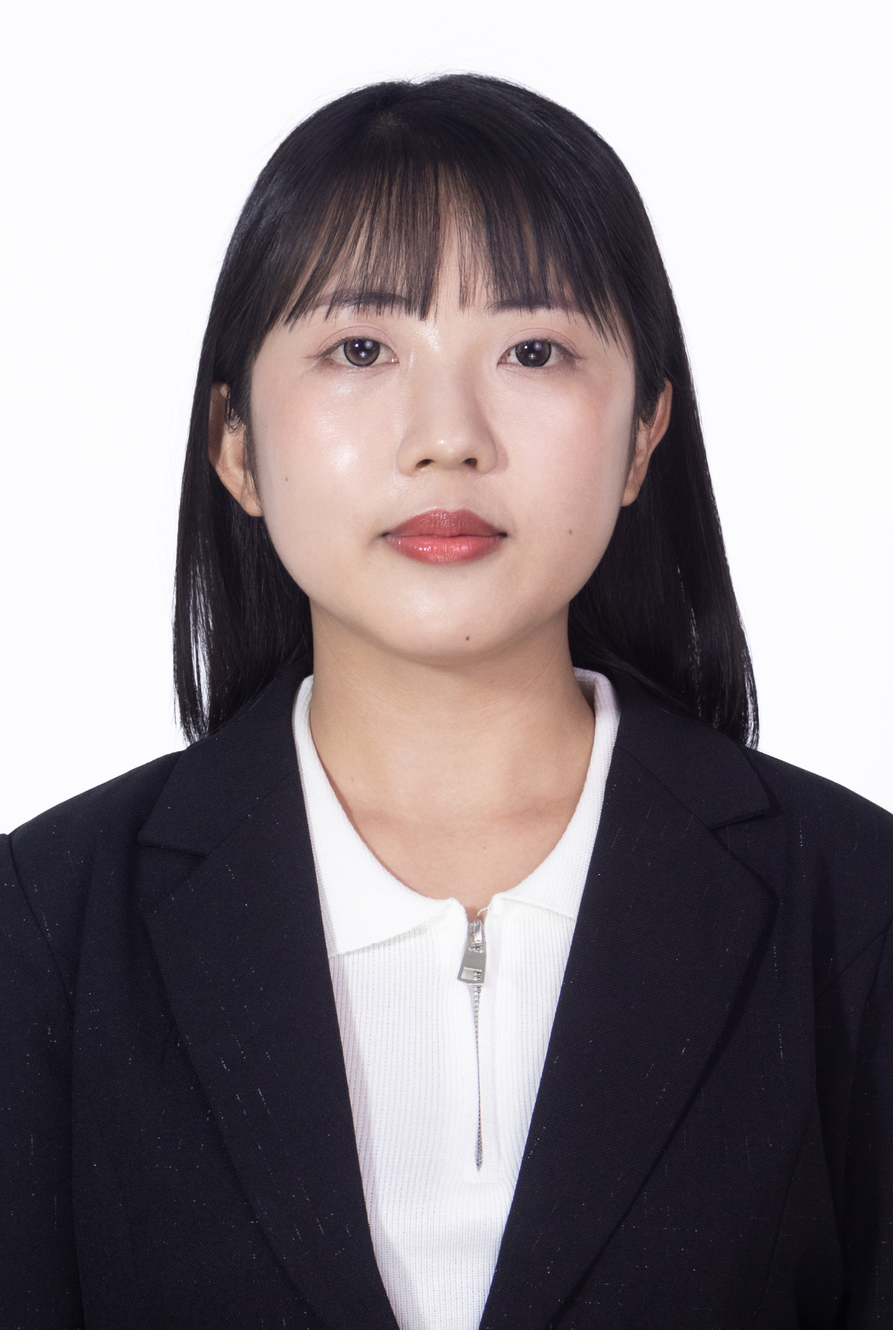
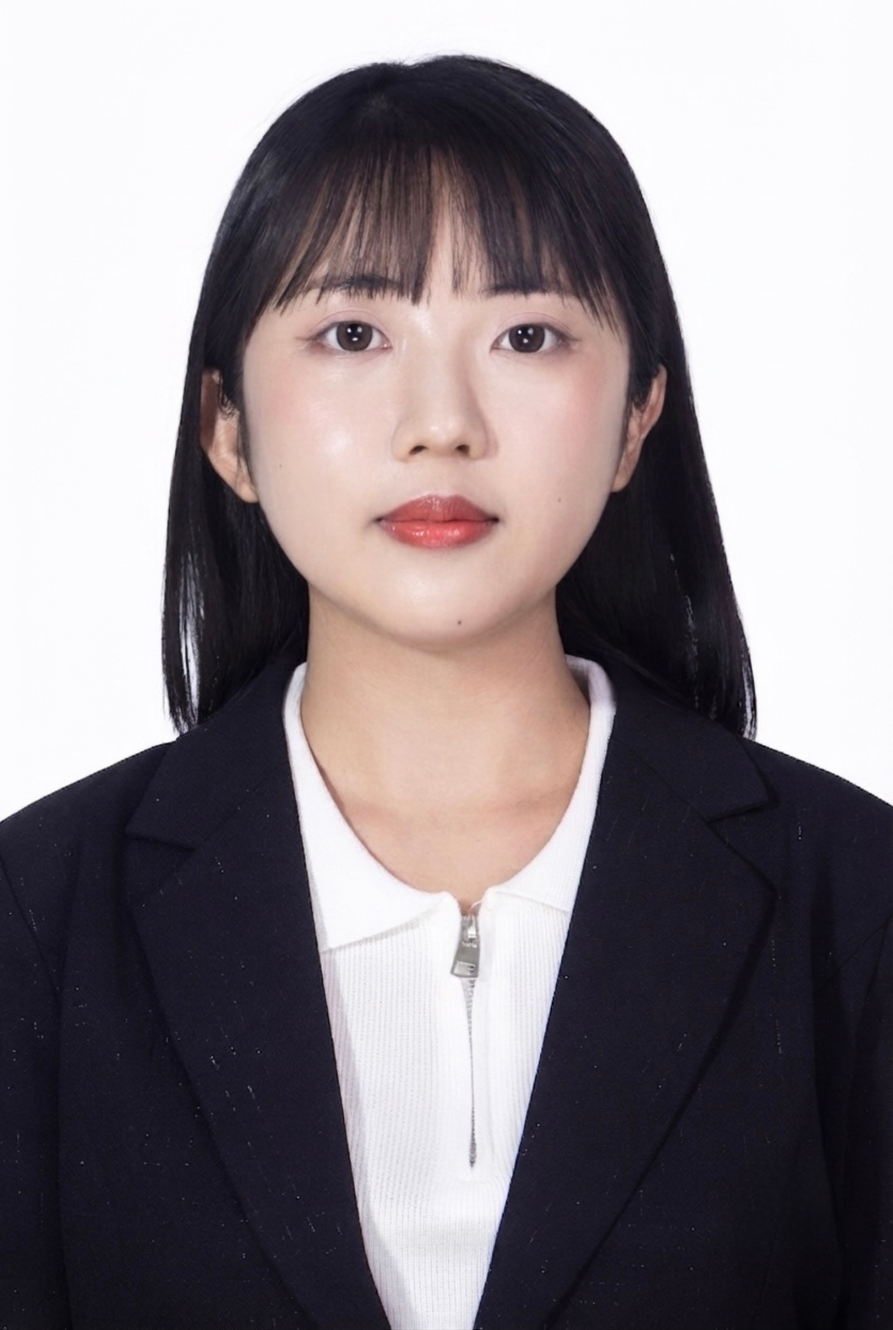
Update

diff --git a/appreciation.html b/appreciation.html
@@ -1,46 +1,20 @@
 <!DOCTYPE html>
-<html lang="en">
+<html lang="en" class="scroll-smooth">
 <head>
-  <meta charset="UTF-8" />
-  <meta name="viewport" content="width=device-width, initial-scale=1.0" />
-  <title>Principal's Message | Cambodia Adventist International School</title>
+  <meta charset="UTF-8">
+  <meta name="viewport" content="width=device-width, initial-scale=1.0">
+  <title>Letter of Appreciation | Cambodia Adventist International School</title>
 
   <!-- Favicon -->
   <link rel="icon" type="image/png" href="img/favicon.png">
-
-  <!-- Prestige Typography Mix: Inter (Sans) + Lora (Serif) -->
-  <link rel="preconnect" href="https://fonts.googleapis.com">
-  <link rel="preconnect" href="https://fonts.gstatic.com" crossorigin>
-  <link href="https://fonts.googleapis.com/css2?family=Inter:wght@400;500;600;700&family=Lora:ital,wght@0,400;0,500;0,600;0,700;1,400&display=swap" rel="stylesheet">
-  
   <script src="https://cdn.tailwindcss.com"></script>
-
-  <!-- Swiper CSS -->
-  <link rel="stylesheet" href="https://cdn.jsdelivr.net/npm/swiper@10/swiper-bundle.min.css" />
-
-  <!-- Swiper JS -->
-  <script src="https://cdn.jsdelivr.net/npm/swiper@10/swiper-bundle.min.js" defer></script>
-
+  <link href="https://fonts.googleapis.com/css2?family=Outfit:wght@300;400;500;600;700&display=swap" rel="stylesheet">
   <style>
-    body {
-      font-family: 'Inter', sans-serif;
-    }
-    .font-serif-prestige {
-      font-family: 'Lora', Georgia, serif;
-    }
-    html {
-      scroll-behavior: smooth;
-    }
-    .animate-fadeInUp {
-      opacity: 0;
-      transform: translateY(20px);
-      animation: fadeInUp 1s ease-out forwards;
-    }
+    body { font-family: 'Outfit', sans-serif; background-color: #FCFCFA; }
   </style>
 </head>
-<body class="bg-gray-50 text-gray-800 antialiased">
-  
-  <!-- Top Contact Bar -->
+<body class="text-neutral-800 antialiased selection:bg-blue-100 selection:text-blue-900">
+
   <div class="hidden lg:flex bg-[#002855] text-slate-200 text-xs tracking-wide py-3 px-8 justify-between items-center border-b border-blue-900/50">
     <div class="flex items-center space-x-6">
       <div class="flex items-center space-x-2">
@@ -61,27 +35,24 @@
     </a>
   </div>
 
-  <!-- Header / Navigation -->
   <header class="sticky top-0 bg-white/95 backdrop-blur-md shadow-md z-50 border-b border-slate-100 transition-all">
     <div class="max-w-7xl mx-auto h-20 px-6 flex justify-between items-center">
-      <!-- Logo -->
       <a href="index.html" class="flex items-center transition transform hover:scale-[1.02]">
         <img src="img/logo.png" alt="CAIS Logo" class="h-10 w-auto">
       </a>
 
-      <!-- Desktop Navigation -->
       <nav class="hidden md:flex items-center space-x-8 text-[14px] font-medium tracking-wide text-slate-600">
         <a href="index.html" class="hover:text-[#002855] transition">Home</a>
 
-        <!-- Dropdowns styled dynamically -->
         <div class="relative group py-2">
           <button class="hover:text-[#002855] text-slate-900 font-semibold transition flex items-center space-x-1">
             <span>About Us</span>
             <svg class="w-4 h-4 opacity-70 transition group-hover:rotate-180" fill="none" stroke="currentColor" stroke-width="2" viewBox="0 0 24 24"><path stroke-linecap="round" stroke-linejoin="round" d="M19 9l-7 7-7-7" /></svg>
           </button>
           <div class="absolute left-0 top-full w-56 bg-white border border-slate-100 rounded-lg shadow-xl py-2 opacity-0 scale-95 invisible group-hover:opacity-100 group-hover:scale-100 group-hover:visible transition-all duration-200 origin-top">
-            <a href="principal.html" class="block px-4 py-2.5 bg-slate-50 text-[#002855] border-l-2 border-[#002855] font-semibold transition">Principal's Message</a>
+            <a href="principal.html" class="block px-4 py-2.5 hover:bg-slate-50 hover:text-[#002855] border-l-2 border-transparent hover:border-[#002855] transition">Principal's Message</a>
             <a href="about.html" class="block px-4 py-2.5 hover:bg-slate-50 hover:text-[#002855] border-l-2 border-transparent hover:border-[#002855] transition">Mission and Vision</a>
+            <a href="appreciation.html" class="block px-4 py-2.5 bg-slate-50 text-[#002855] border-l-2 border-[#002855] font-semibold transition">Word of Appreciation</a>
             <a href="administration.html" class="block px-4 py-2.5 hover:bg-slate-50 hover:text-[#002855] border-l-2 border-transparent hover:border-[#002855] transition">Administration</a>
             <a href="faculty.html" class="block px-4 py-2.5 hover:bg-slate-50 hover:text-[#002855] border-l-2 border-transparent hover:border-[#002855] transition">Faculty & Staff</a>
             <a href="contact.html" class="block px-4 py-2.5 hover:bg-slate-50 hover:text-[#002855] border-l-2 border-transparent hover:border-[#002855] transition">Contact Us</a>
@@ -133,13 +104,11 @@
         </div>
       </nav>
 
-      <!-- Mobile Menu Button -->
       <button id="menuBtn" class="md:hidden text-slate-800 focus:outline-none p-2 rounded-lg hover:bg-slate-100 transition">
         <svg class="w-6 h-6" fill="none" stroke="currentColor" stroke-width="2" viewBox="0 0 24 24"><path stroke-linecap="round" stroke-linejoin="round" d="M4 6h16M4 12h16M4 18h16" /></svg>
       </button>
     </div>
 
-    <!-- Mobile Navigation Stack Menu -->
     <div id="mobileMenu" class="hidden md:hidden bg-white border-b border-slate-200 px-6 py-4 space-y-3 shadow-inner">
       <a href="index.html" class="block font-medium text-slate-600 hover:text-[#002855]">Home</a>
       <div class="border-t border-slate-100 pt-2 space-y-1">
@@ -150,101 +119,115 @@
         <a href="faculty.html" class="block pl-2 py-1 text-sm text-slate-600">Faculty & Staff</a>
         <a href="contact.html" class="block pl-2 py-1 text-sm text-slate-600">Contact Us</a>
       </div>
-      <!-- Additional basic mobile sections could follow layout pattern if needed -->
     </div>
   </header>
 
-  <!-- President Message Section (The Prestige Editorial Layer) -->
-  <section id="message" class="py-10 px-4 sm:px-6 lg:px-8 bg-slate-50">
-    <div class="max-w-5xl mx-auto bg-white p-8 md:p-14 shadow-xl rounded-xl border border-gray-100">
-      
-      <!-- Header Design -->
-      <div class="mb-10 border-b border-gray-200 pb-6">
-        <h2 class="text-2xl md:text-3xl font-serif-prestige font-bold text-[#002855] tracking-tight mb-4">
-          Message from the Principal
-        </h2>
-        <div class="flex gap-1 h-1.5 w-48">
-          <div class="w-1/2 bg-cyan-500 rounded-full"></div>
-          <div class="w-1/3 bg-yellow-400 rounded-full"></div>
-          <div class="w-1/6 bg-pink-700 rounded-full"></div>
-        </div>
+  <main class="max-w-5xl mx-auto px-6 py-8 sm:py-8 space-y-16">
+    
+    <div class="text-center space-y-4 max-w-2xl mx-auto">
+      <div class="inline-flex items-center bg-blue-50 text-[#002855] text-xs px-4 py-1.5 rounded-full font-medium tracking-wide border border-blue-100">
+        <span>Honoring Four Unforgettable Years of Dedicated Service</span>
       </div>
-
-      <!-- Content Layout using Lora (font-serif-prestige) for pristine reading dynamics -->
-      <div class="text-gray-800 text-justify leading-relaxed text-base md:text-lg font-serif-prestige clear-both">
-        
-        <!-- Profile Photo (Floated gracefully left) -->
-        <div class="float-left mr-8 mb-6 w-full sm:w-72">
-          <img src="img/administration/Sieng Kimsreng.png" alt="President Photo"
-               class="w-full h-auto shadow-md rounded-xl border-4 border-white ring-1 ring-gray-200" />
-        </div>
-
-        <!-- Letter Body -->
-        <p class="mb-4 font-sans font-bold text-lg text-[#002855]">
-          Dear Cambodia Adventist School Students, Parents, and CAIS Family,
-        </p>
-        
-        <p class="mb-4 indent-8">
-          Leader comes; leader goes, passing the responsibilities to the next one. The seed has been sown, the next person waters, but it is the Lord to make it grow. <span class="text-cyan-700 font-sans text-sm font-semibold tracking-wide ml-1">[1 Corinthians 3:6]</span>
-        </p>
-        
-        <p class="mb-4 indent-8">
-          The primary philosophy of Seventh-day Adventist (SDA) education isn't just about getting good grades on standardized tests or securing a well-paid job. Of course, academic excellence is absolutely a priority; however, it is even more important to build on a deeply theological foundation for them; that is the restoration of the lost image into the character of God (image of God). Every child must be trained in the way they should go, and when he/she is old, he/she will not depart from it. <span class="text-cyan-700 font-sans text-sm font-semibold tracking-wide ml-1">[Proverbs 22:6]</span>
-        </p>
-        
-        <p class="mb-4 indent-8">
-          It is a privilege and I am grateful that I was called to step into the role of principal for the next five years. Students, whether you are a returning student who knows these halls by heart, or a new student walking through the school campus for the very first time (perhaps with a backpack, full of books that looks a bit too big and heavy for you), I warmly welcome you. We are standing at the threshold of a beautiful new chapter. As we look ahead at the school years <strong>2026-2027</strong>, we aren't just planning for the next school year; we are charting a new course to inspire minds, nurture souls, and to build a community that feels like family.
-        </p>
-        
-        <p class="mb-4 indent-8">
-          Over the coming years, our focus will be anchored in the core commitments to ensure all children don't just succeed as the Reflectors, but the Thinkers who possess the moral independence to evaluate facts, seek truth for themselves, stand for principle, and think critically. 
-        </p>
-        
-        <p class="mb-4 indent-8">
-          In the Adventist school, being teachers are the highest call to create an environment where students would see God’s love daily, develop a strong moral compass, and learn the joy of selfless service to the country and the world. We acknowledge that all children are the heritage from God and they are equal in the eye of the Lord and will have the same opportunity to receive proper education that not only train the mind but also the heart. In a true educational framework, academic brilliance without a good character is considered a failure. The ultimate success of a student isn't measured by their GPA they get, the salary they will earn, or the prestige of their university acceptance, but it is measured by their integrity, their kindness, their work ethic, and their faithfulness to God, the Creator.
-        </p>
-        
-        <p class="mb-4 indent-8">
-          The world is changing rapidly, and our classrooms will reflect that. Our teachers will not be conformed to this world but will be transformed by renewing of their minds, that they may be proved what is that good and acceptable and perfect will of God, <span class="text-cyan-700 font-sans text-sm font-semibold tracking-wide ml-1">[Romans 12:2]</span>. From one school year to another school year, we will be improving our instructional curriculum with critical thinking, technology integration, integration of faith in learning, and creative problem-solving, ensuring our graduates are ready for whatever the future holds. We confidently ensure that CAIS is a place where students want to run into, not away from. We make it as a shelter of refuge for the students from whatever background. We are committed to fostering a campus culture of kindness, mental well-being, and mutual respect where every single student feels seen, accepted, and valued.
-        </p>
-        
-        <p class="mb-4 indent-8">
-          <strong class="text-[#002855] font-sans text-[15px] tracking-wide uppercase block mt-6 mb-1">To our inspiring students,</strong> whether you are eager to get back to the classroom or secretly wishing that summer vacation lasted just a little bit longer, I am so glad that you are here. My challenge to you for this 2026–2027 chapter is simple: Don't be afraid to grow; make mistakes, ask big questions, be kind to the person sitting next to you, and discover the unique gifts God has given you. The future is incredibly bright at Cambodia Adventist School. Let’s step into this new era together with faith in our hearts and a smile on our faces, go forth and conquer.
-        </p>
-        
-        <p class="mb-4 indent-8">
-          <strong class="text-[#002855] font-sans text-[15px] tracking-wide uppercase block mt-6 mb-1">To the parents,</strong> I would like to thank you for entrusting us with your most beloved, greatest treasures. Education is a team sport, and we cannot do this without your support. Your involvement in their education has a great impact on your child’s success. We promise that school’s door will always be open to you. Let’s work hand-in-hand over these years to celebrate our children's triumphs and support them physically, socially, emotionally, and spiritually through their challenges.
-        </p>
-        
-        <p class="mb-8">
-          May God richly bless our school as we begin this remarkable journey.
-        </p>
-        
-        <!-- Standard Sans Sign-off Section -->
-        <div class="clear-both pt-8 border-t border-gray-100 max-w-sm font-sans">
-          <p class="italic text-gray-600 mb-4 text-sm md:text-base">
-            Sincerely in His Service with prayers and anticipation,
-          </p>
-          
-          <!-- Principal Signature Render Space -->
-          <div class="h-16 mb-2">
-            <img src="img/administration/signature.jpg" alt="Signature of Principal" class="h-full object-contain mix-blend-multiply" />
-          </div>
-          
-          <!-- Official Credentials -->
-          <p class="font-bold text-xl text-[#002855] tracking-wide">Mr. Sieng Kimsreng</p>
-          <p class="text-xs uppercase tracking-wider text-gray-400 font-bold mt-0.5">Principal of Cambodia Adventist School</p>
-        </div>
-
-      </div>
+      <h1 class="text-3xl sm:text-3xl font-light text-neutral-900 tracking-tight leading-tight">
+        A Legacy of Faith, Leadership, <br class="hidden sm:inline">
+        and <span class="font-medium text-[#002855]">Educational Excellence</span>
+      </h1>
+      <p class="text-neutral-500 text-xs sm:text-sm font-light">
+        A special recognition statement from the faculty, staff, and students of Cambodia Adventist International School.
+      </p>
     </div>
-  </section>
-  
-  <!-- Complete Standard School Footer -->
+
+    <div class="flex flex-row justify-center items-start gap-6 max-w-md mx-auto">
+        <div class="space-y-3 group flex flex-col items-center flex-1">
+            <div class="w-[10rem] rounded-xl bg-slate-100 border border-slate-200/60 overflow-hidden shadow-sm relative">
+            <img src="img/appreciation/edward.png" alt="Mr. Dean Edwards" class="w-full h-full object-cover" onerror="this.style.display='none'; this.nextElementSibling.classList.remove('hidden');">
+            <div class="hidden absolute inset-0 flex flex-col items-center justify-center bg-slate-50 text-slate-400 p-4 text-center text-xs font-light">
+                <svg class="w-8 h-8 mb-2 stroke-1" fill="none" stroke="currentColor" viewBox="0 0 24 24"><path stroke-linecap="round" stroke-linejoin="round" d="M16 7a4 4 0 11-8 0 4 4 0 018 0zM12 14a7 7 0 00-7 7h14a7 7 0 00-7-7z"></path></svg>
+                [ Portrait Placeholder: Mr. Dean Edwards ]
+            </div>
+            </div>
+            <div class="text-center">
+            <h3 class="font-medium text-neutral-900 text-sm sm:text-base">Mr. Dean Edwards</h3>
+            <p class="text-[11px] text-neutral-400 uppercase tracking-widest font-medium">School Principal</p>
+            </div>
+        </div>
+
+        <div class="space-y-3 group flex flex-col items-center flex-1">
+            <div class="w-[10rem] rounded-xl bg-slate-100 border border-slate-200/60 overflow-hidden shadow-sm relative">
+            <img src="img/appreciation/helen.png" alt="Dr. Helen Edwards" class="w-full h-full object-cover" onerror="this.style.display='none'; this.nextElementSibling.classList.remove('hidden');">
+            <div class="hidden absolute inset-0 flex flex-col items-center justify-center bg-slate-50 text-slate-400 p-4 text-center text-xs font-light">
+                <svg class="w-8 h-8 mb-2 stroke-1" fill="none" stroke="currentColor" viewBox="0 0 24 24"><path stroke-linecap="round" stroke-linejoin="round" d="M16 7a4 4 0 11-8 0 4 4 0 018 0zM12 14a7 7 0 00-7 7h14a7 7 0 00-7-7z"></path></svg>
+                [ Portrait Placeholder: Dr. Helen Edwards ]
+            </div>
+            </div>
+            <div class="text-center">
+            <h3 class="font-medium text-neutral-900 text-sm sm:text-base">Dr. Helen Edwards</h3>
+            <p class="text-[11px] text-neutral-400 uppercase tracking-widest font-medium">Academic Director</p>
+            </div>
+        </div>
+    </div>
+
+    <article class="bg-white border border-neutral-200/60 rounded-xl p-6 sm:p-12 shadow-xl shadow-neutral-950/[0.01] space-y-8">
+      
+      <div class="pb-4 border-b border-neutral-100">
+        <span class="text-[10px] font-bold tracking-widest text-[#002855] uppercase block mb-1">Official Institutional Presentation</span>
+        <h2 class="text-xl font-medium text-neutral-900">To: Mr. Edwards and Dr. Helen Edwards</h2>
+      </div>
+
+      <p class="text-neutral-600 text-sm sm:text-base font-light leading-relaxed text-justify">
+        On behalf of the Cambodia Adventist International School (CAIS), we would like to extend our deepest gratitude and appreciation for the incredible leadership, and heart Mr. Dean Edwards and Dr. Helen Edwards have poured into our school community for four years of dedicated service to CAIS school in the country of Cambodia. Uprooting your comfortable lives in the United States to serve in a different corner of the world is a profound calling of the Lord, and you both answered it with grace, enthusiasm, and an unwavering commitment to it. Over the last four years, your combined presence has left remarkable lessons on our school campus. We want to specifically recognize the unique gifts you both shared with us:
+      </p>
+
+      <div class="space-y-6 pt-2">
+        
+        <div class="bg-slate-50/60 border border-slate-200/40 p-6 sm:p-8 rounded-2xl space-y-3">
+          <div class="flex items-center space-x-2 text-[#002855]">
+            <span class="w-1.5 h-4 bg-amber-500 rounded-full"></span>
+            <h3 class="font-semibold text-neutral-900 text-base">To Mr. Edwards:</h3>
+          </div>
+          <p class="text-neutral-600 text-xs sm:text-sm font-light leading-relaxed text-justify">
+            As a school principal, your leadership has been a cornerstone of stability and growth for CAIS over the last four years. Thank you for your wisdom, your ability to guide our students with a firm yet redemptive hand, and your dedication to creating a safe, nurturing, and spiritually grounded environment. You didn’t just manage the school but also initiated to build the sport court and a two story-school building. During these four years, your steady hand and clear vision kept our campus running smoothly, providing the stability our community needed to flourish. Thank you for always prioritizing the well-being of the students, especially the little ones, and staff ensuring that everyone who walked through our campus felt valued and heard.
+          </p>
+        </div>
+
+        <div class="bg-slate-50/60 border border-slate-200/40 p-6 sm:p-8 rounded-2xl space-y-3">
+          <div class="flex items-center space-x-2 text-[#002855]">
+            <span class="w-1.5 h-4 bg-blue-600 rounded-full"></span>
+            <h3 class="font-semibold text-neutral-900 text-base">To Dr. Helen Edwards:</h3>
+          </div>
+          <p class="text-neutral-600 text-xs sm:text-sm font-light leading-relaxed text-justify">
+            You raised the bar for academic demand and standard at CAIS, ensuring our students receive a world-class international education that prepares them for the university level. Thank you for investing so deeply in both our teaching and non-teaching staff, mentoring them with patience, and fostering a culture of continuous learning and professional growth. Thank you so much for your profound dedication, expertise, and the intellectual way you brought to our CAIS community. Your commitment to high standards, your care for the well-being of those around you, and your willingness to invest deeply in the lives of our students and staff have elevated CAIS in many ways, especially assisting most of our teachers to pursue a master’s degree in Curriculum, Special Education and Education Administration. The influence of a great educator and leader of yours will never be erased from our memories.
+          </p>
+        </div>
+
+      </div>
+
+      <div class="space-y-4 pt-4 border-t border-neutral-100 text-neutral-600 text-sm sm:text-base font-light leading-relaxed text-justify">
+        <p>
+          As you prepare for the next chapter of your service, please know that you have left behind a legacy of faith, hard-working hands, and educational excellence. You will be missed, and the seeds you have planted here will continue to grow for years to come.
+        </p>
+        <p>
+          We wish you both abundant blessings, good health, and immense joy in whatever adventures God leads you to the next steps of your service in the education field. Thank you for four unforgettable years.
+        </p>
+      </div>
+
+      <div class="pt-8 border-t border-neutral-100 flex flex-col sm:flex-row justify-between items-start sm:items-end gap-6 text-xs text-neutral-500">
+        <div class="space-y-1">
+          <p class="font-medium text-[#002855] text-sm italic">With highest esteem and warmest regards,</p>
+          <p class="font-light">The Faculty, Staff, and Students of Cambodia Adventist International School</p>
+        </div>
+        <div class="text-left sm:text-right shrink-0 border-l sm:border-l-0 sm:border-r-2 border-slate-200 pl-4 sm:pl-0 sm:pr-4 py-1">
+          <h4 class="font-semibold text-neutral-900 uppercase tracking-wider">Office of the Principal</h4>
+          <p class="font-light text-[11px]">Cambodia Adventist International School</p>
+        </div>
+      </div>
+
+    </article>
+  </main>
+
   <footer class="bg-[#02214d] text-slate-300 pt-16 pb-8 px-6 relative border-t-4 border-amber-400">
     <div class="max-w-7xl mx-auto grid grid-cols-1 sm:grid-cols-2 lg:grid-cols-4 gap-10">
       
-      <!-- Address Column -->
       <div>
         <h3 class="text-white font-semibold tracking-wider uppercase text-sm mb-4 pb-2 border-b border-blue-800">Campus Address</h3>
         <p class="text-xs sm:text-sm leading-relaxed text-slate-300">
@@ -257,7 +240,6 @@
         </div>
       </div>
 
-      <!-- Contacts Column -->
       <div>
         <h3 class="text-white font-semibold tracking-wider uppercase text-sm mb-4 pb-2 border-b border-blue-800">Our Contacts</h3>
         <div class="text-xs sm:text-sm space-y-3">
@@ -268,20 +250,18 @@
         </div>
       </div>
 
-      <!-- Links Column -->
       <div>
         <h3 class="text-white font-semibold tracking-wider uppercase text-sm mb-4 pb-2 border-b border-blue-800">Quick Links</h3>
         <ul class="text-xs sm:text-sm space-y-2.5">
-          <li><a href="https://sites.google.com/caisedu.com/guidance-resources/home" target="_blank" class="hover:text-amber-400 transition flex items-center"><span>&rsaquo; University and Careers</span></a></li>
-          <li><a href="https://drive.google.com/file/d/1lJk1FRe0gHvwKqCcTP8ful9dnmTsYHFq/view?usp=sharing" target="_blank" class="hover:text-amber-400 transition flex items-center"><span>&rsaquo; School Curriculum</span></a></li>
-          <li><a href="https://drive.google.com/file/d/1jjaEDeOag58ZMCuKKZCYejP6qsb2Xm__/view?usp=sharing" target="_blank" class="hover:text-amber-400 transition flex items-center"><span>&rsaquo; School History</span></a></li>
-          <li><a href="https://drive.google.com/file/d/1g6esWqYipTlW75T7wuYsOvueWXVSwbU-/view?usp=sharing" target="_blank" class="hover:text-amber-400 transition flex items-center"><span>&rsaquo; School Calendar</span></a></li>
-          <li><a href="https://drive.google.com/file/d/1L7VDNpo1ZLoQRwDvJrhjelEF1ONw_DAq/view?usp=sharing" target="_blank" class="hover:text-amber-400 transition flex items-center"><span>&rsaquo; Student Handbook</span></a></li>
-          <li><a href="https://lms.cais.edu.kh/" target="_blank" class="text-amber-400 hover:underline transition flex items-center font-medium"><span>&rsaquo; Moodle LMS</span></a></li>
+          <li><a href="https://sites.google.com/caisedu.com/guidance-resources/home" target="_blank" class="hover:text-amber-400 transition flex items-center"><span>› University and Careers</span></a></li>
+          <li><a href="https://drive.google.com/file/d/1lJk1FRe0gHvwKqCcTP8ful9dnmTsYHFq/view?usp=sharing" target="_blank" class="hover:text-amber-400 transition flex items-center"><span>› School Curriculum</span></a></li>
+          <li><a href="https://drive.google.com/file/d/1jjaEDeOag58ZMCuKKZCYejP6qsb2Xm__/view?usp=sharing" target="_blank" class="hover:text-amber-400 transition flex items-center"><span>› School History</span></a></li>
+          <li><a href="https://drive.google.com/file/d/1g6esWqYipTlW75T7wuYsOvueWXVSwbU-/view?usp=sharing" target="_blank" class="hover:text-amber-400 transition flex items-center"><span>› School Calendar</span></a></li>
+          <li><a href="https://drive.google.com/file/d/1L7VDNpo1ZLoQRwDvJrhjelEF1ONw_DAq/view?usp=sharing" target="_blank" class="hover:text-amber-400 transition flex items-center"><span>› Student Handbook</span></a></li>
+          <li><a href="https://lms.cais.edu.kh/" target="_blank" class="text-amber-400 hover:underline transition flex items-center font-medium"><span>› Moodle LMS</span></a></li>
         </ul>
       </div>
 
-      <!-- Map Block Component -->
       <div>
         <h3 class="text-white font-semibold tracking-wider uppercase text-sm mb-4 pb-2 border-b border-blue-800">Visit Us</h3>
         <div class="rounded-xl overflow-hidden shadow-md border border-blue-900/80 aspect-video lg:h-40 lg:w-full">
@@ -290,13 +270,11 @@
       </div>
     </div>
 
-    <!-- Copyright Footnote Area -->
     <div class="mt-16 pt-6 border-t border-blue-900 text-center text-xs text-slate-400">
-      &copy; Copyright 2026 | All Rights Reserved by 
+      © Copyright 2026 | All Rights Reserved by 
       <a href="#" class="text-amber-400 hover:underline ml-1">Sala Antharakchet Adventist (Kampuchea)</a>
     </div>
 
-    <!-- Scroll Back to Top Interactive Anchor -->
     <a href="#" class="fixed bottom-6 right-6 bg-amber-500 text-slate-950 p-3.5 rounded-full shadow-lg hover:bg-amber-400 hover:scale-110 active:scale-95 transition transform z-40">
       <svg class="w-4 h-4 font-bold" fill="none" stroke="currentColor" stroke-width="3" viewBox="0 0 24 24">
         <path stroke-linecap="round" stroke-linejoin="round" d="M4.5 15.75l7.5-7.5 7.5 7.5" />
@@ -304,13 +282,14 @@
     </a>
   </footer>
 
-  <!-- Burger Menu Script -->
   <script>
-    const menuBtn = document.getElementById("menuBtn");
-    const mobileMenu = document.getElementById("mobileMenu");
+    document.addEventListener("DOMContentLoaded", () => {
+      const menuBtn = document.getElementById("menuBtn");
+      const mobileMenu = document.getElementById("mobileMenu");
 
-    menuBtn.addEventListener("click", () => {
-      mobileMenu.classList.toggle("hidden");
+      menuBtn.addEventListener("click", () => {
+        mobileMenu.classList.toggle("hidden");
+      });
     });
   </script>
 </body>

diff --git a/index.html b/index.html
@@ -127,6 +127,7 @@
         >
           <a href="principal.html" class="block hover:bg-blue-50 border-b p-4">Principal's Message</a>
           <a href="about.html" class="block hover:bg-blue-50 border-b p-4">Mission and Vision</a>
+          <a href="appreciation.html" class="block hover:bg-blue-50 border-b p-4">Word of Appreciation</a>
           <a href="administration.html" class="block hover:bg-blue-50 border-b p-4">Administration</a>
           <a href="faculty.html" class="block hover:bg-blue-50 border-b p-4">Faculty & Staff</a>
           <a href="contact.html" class="block hover:bg-blue-50 border-b p-4">Contact Us</a>
